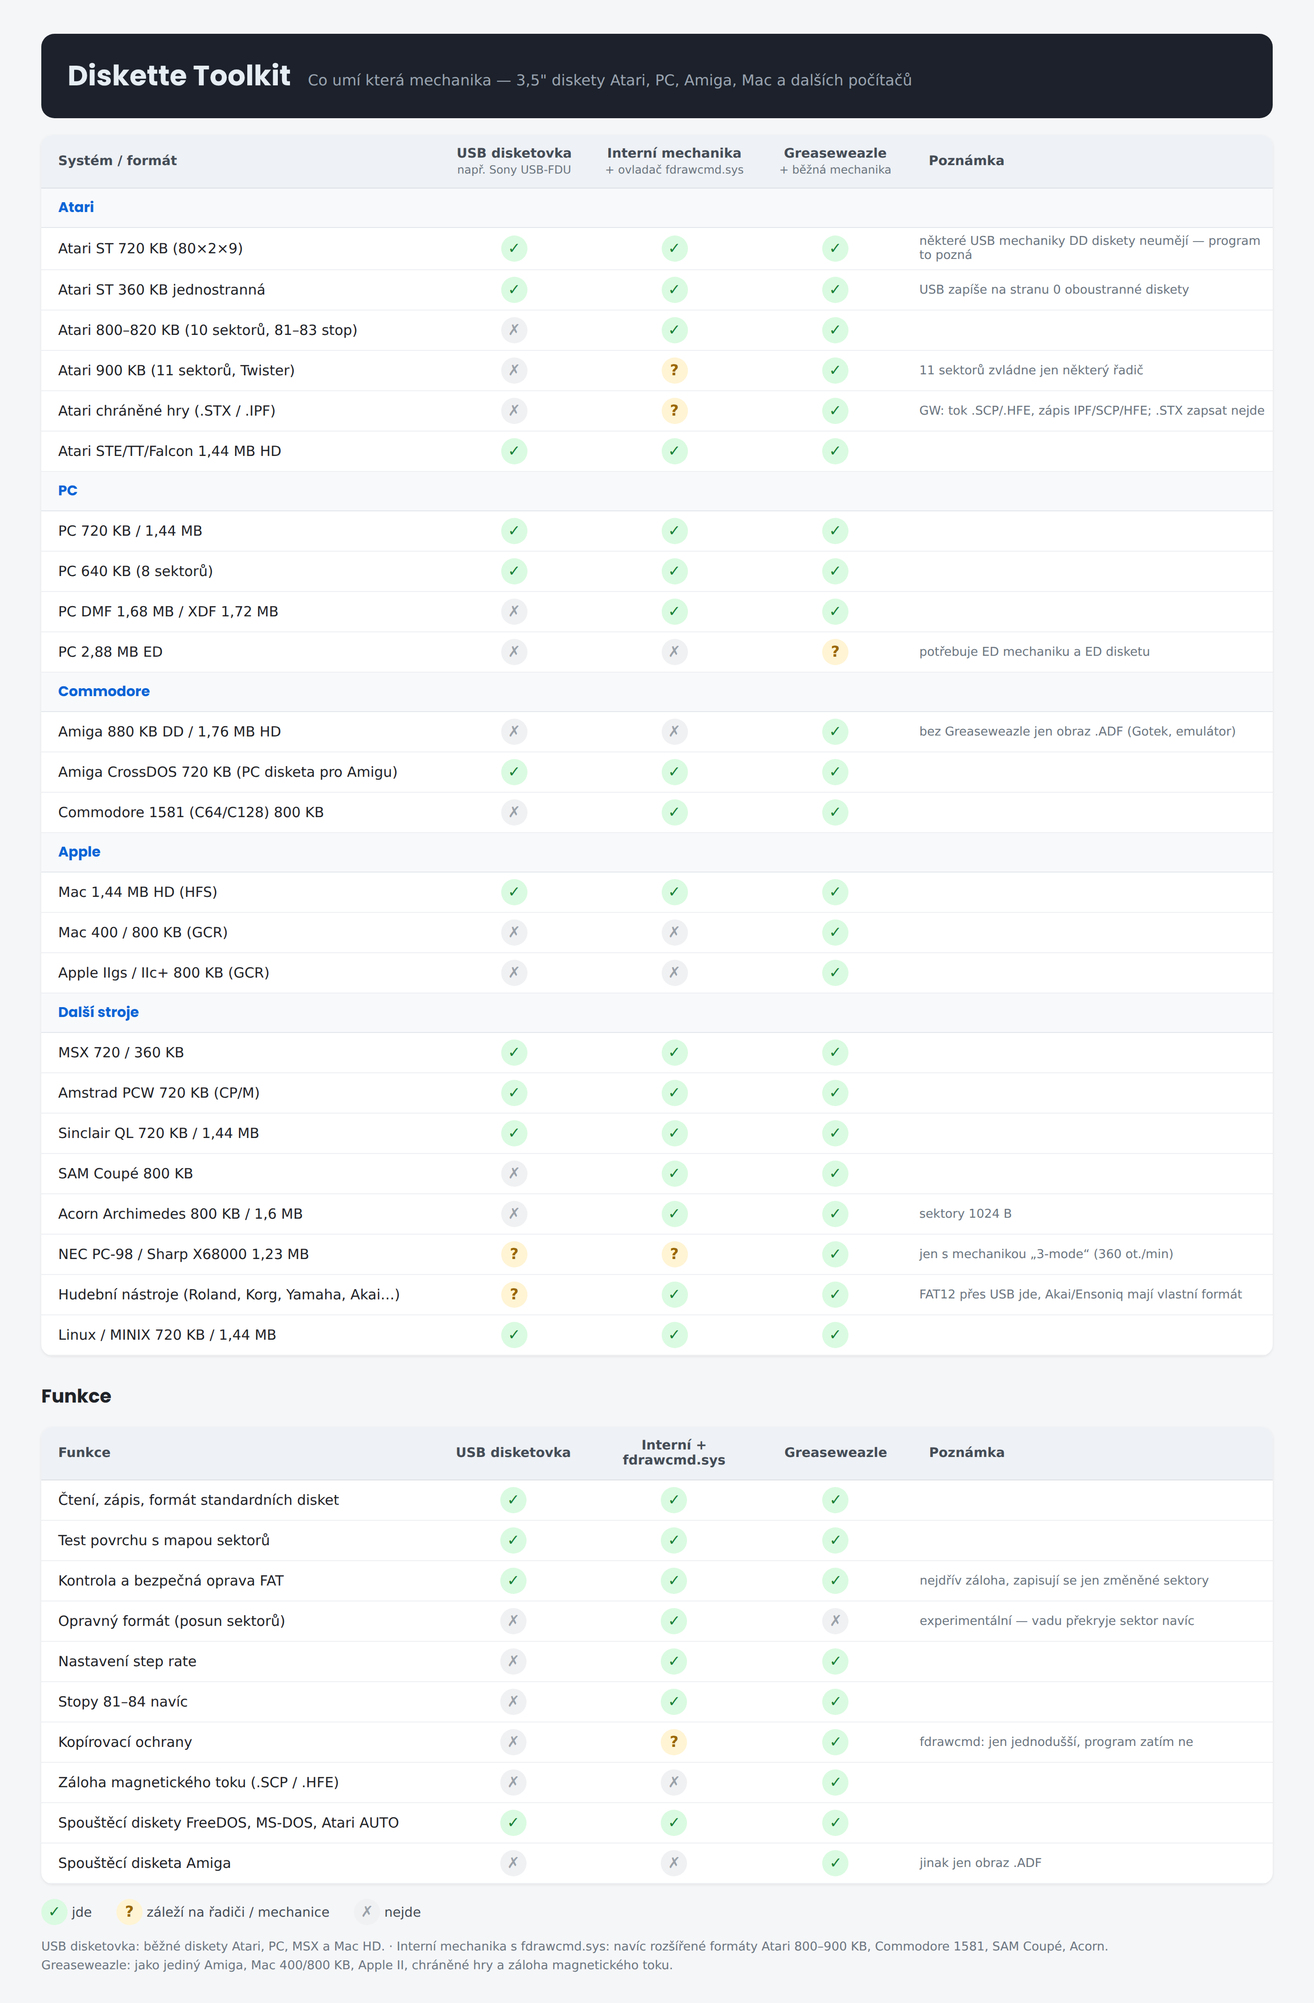
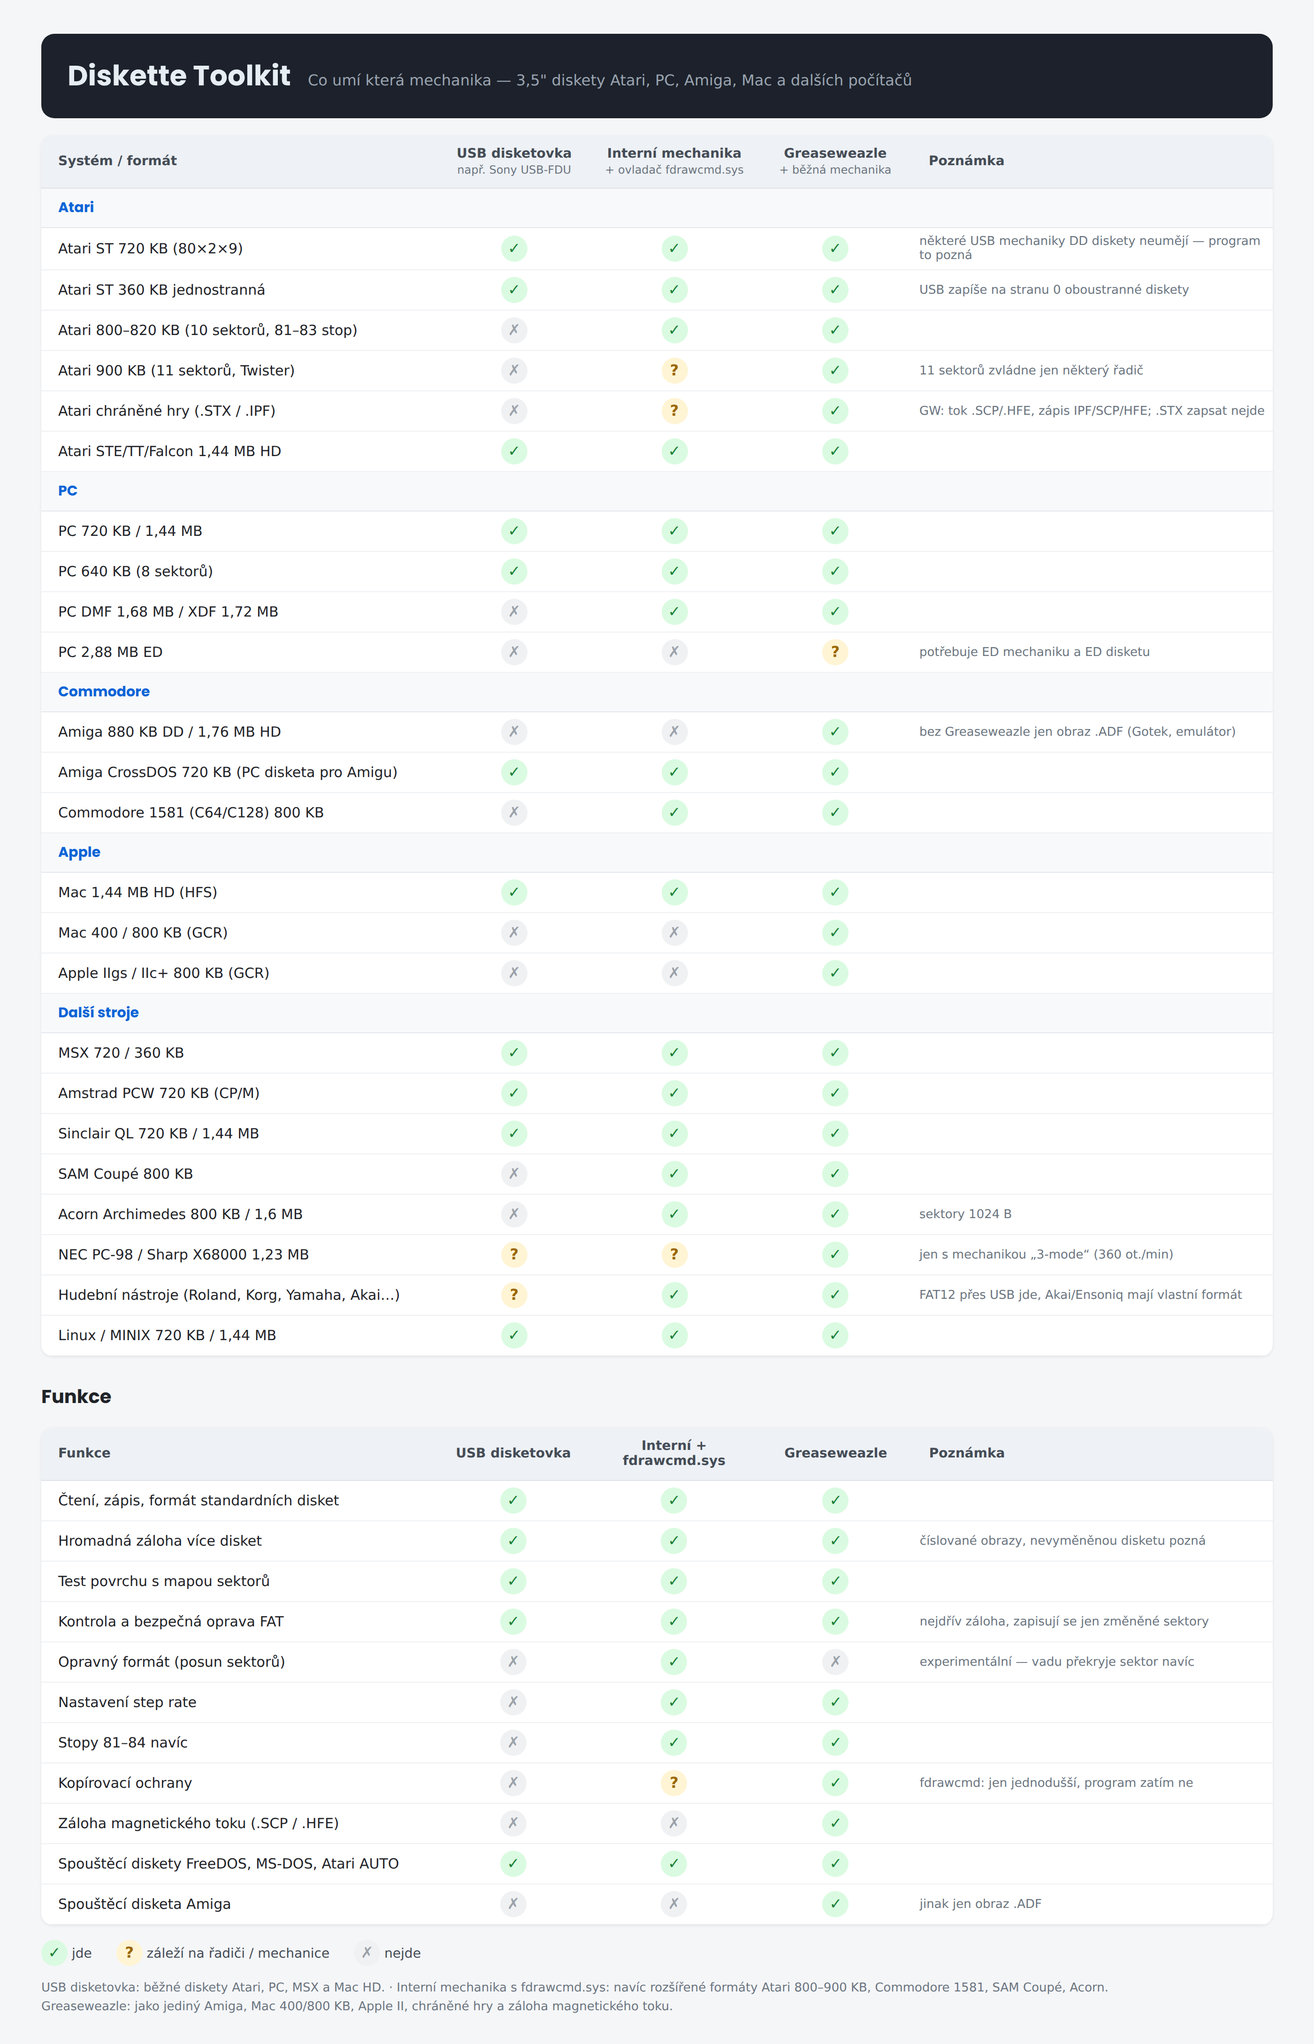
0.8.4: batch backup, drag and drop, AI note in README (#6)
* 0.8.4: batch backup, drag and drop, AI note in README

- "Batch backup…" button: disk after disk into numbered images
  (Backups.FirstBatchPath / NextBatchPath, never overwrites); a disk that
  was not swapped (same SHA-256 as the previous one) is detected and dropped
- drag an image from Explorer onto the window to open it; uses WM_DROPFILES
  with ChangeWindowMessageFilterEx because the program runs elevated and
  Windows blocks OLE drag and drop into elevated windows
- README: "How it is made" (AI-assisted, every change reviewed);
  feature list, capability table row, NAVOD changelog, version 0.8.4
- demo-only screenshot scenario "batch"

* Drag and drop: unregister OLE drop targets, accept drops on all child windows

The log (RichTextBox) registers its own OLE drop target, which Windows
blocks between Explorer and an elevated window. Revoke OLE registration on
every child window, enable WM_DROPFILES (plus the UIPI message filter) on
all of them, and catch WM_DROPFILES for the whole thread with an
IMessageFilter. Dropped files are logged.

* Backup format follows "Save as type" and is remembered

The suggested file name had a fixed .st extension, so choosing MSA/IMG/ADF
in the save dialog had no effect. The name now has no extension, the chosen
type adds it, and the last chosen type is preselected next time.

diff --git a/src/Gui/MainForm.cs b/src/Gui/MainForm.cs
@@ -51,7 +51,7 @@ internal sealed class MainForm : Form, IJobHost
     private readonly Panel _right = new();
     private readonly FlowLayoutPanel _actions = new();
     private readonly Label _secDisk = new(), _secImages = new(), _secHelp = new();
-    private readonly ActionButton _aRead = new(), _aWrite = new(), _aFormat = new(), _aTest = new(), _aErase = new(), _aSetup = new(), _aBoot = new();
+    private readonly ActionButton _aRead = new(), _aWrite = new(), _aFormat = new(), _aTest = new(), _aErase = new(), _aSetup = new(), _aBoot = new(), _aBatch = new();
     private readonly ActionButton _iOpen = new(), _iCheck = new(), _iConvert = new(), _iNew = new();
     private readonly ActionButton _hFormats = new(), _hAbout = new(), _hDonate = new();
     private readonly ToolTip _tips = new();
@@ -248,6 +248,7 @@ internal sealed class MainForm : Form, IJobHost
 
         Section(_secDisk);
         Add(_aRead, "⭳", (_, _) => DoRead());
+        Add(_aBatch, "⭳", (_, _) => DoRead(batch: true));
         Add(_aWrite, "⭱", (_, _) => DoWrite(null));
         Add(_aFormat, "▦", (_, _) => DoFormat());
         Add(_aTest, "✚", (_, _) => DoTest());
@@ -342,6 +343,13 @@ internal sealed class MainForm : Form, IJobHost
         DetectDrives();
     }
 
+    protected override void OnShown(EventArgs e)
+    {
+        base.OnShown(e);
+        EnableFileDrop(this);
+        Application.AddMessageFilter(new DropFilter(this));
+    }
+
     /// <summary>Okno nikdy větší než pracovní plocha: uložená velikost, jinak výchozí; vystředěné.</summary>
     private void FitToScreen()
     {
@@ -382,6 +390,7 @@ internal sealed class MainForm : Form, IJobHost
         _secHelp.Text = Tr.T("PŘEHLED A NÁPOVĚDA").ToUpperInvariant();
 
         _aRead.Text = Tr.T("Záloha do obrazu");
+        _aBatch.Text = Tr.T("Hromadná záloha…");
         _aWrite.Text = Tr.T("Zapsat obraz na disketu");
         _aFormat.Text = Tr.T("Formátovat…");
         _aTest.Text = Tr.T("Test povrchu a kontrola");
@@ -599,6 +608,7 @@ internal sealed class MainForm : Form, IJobHost
             _tips.SetToolTip(b, d == null ? "" : v?.Reason ?? "");
         }
         Set(_aRead, Op(OperationAdvisor.Read), d?.Kind == DriveKind.Greaseweazle ? Tr.T("formát pozná sám; i tok .SCP / .HFE") : Tr.T("disketa → .ST / .MSA / .IMG"));
+        Set(_aBatch, Op(OperationAdvisor.Read), Tr.T("víc disket za sebou, soubory se očíslují"));
         Set(_aWrite, Op(OperationAdvisor.Write), Tr.T("obraz → disketa (jako RawWrite), s kontrolou"));
         Set(_aFormat, Op(OperationAdvisor.Format), Tr.T("Atari, PC, MSX, Mac, Amiga…"));
         var surface = Op(OperationAdvisor.Surface);
@@ -639,22 +649,31 @@ internal sealed class MainForm : Form, IJobHost
 
     // ================================================================ akce s disketou
 
-    private void DoRead()
+    /// <summary>Naposledy zvolený formát zálohy (položka „Uložit jako typ“) — platí, dokud běží program.</summary>
+    private int _saveFilterIndex = 1;
+
+    private void DoRead(bool batch = false)
     {
-        if (!CheckReady(_aRead)) return;
+        if (!CheckReady(batch ? _aBatch : _aRead)) return;
         var d = Selected!;
         bool gw = d.Kind == DriveKind.Greaseweazle;
         using var dlg = new SaveFileDialog
         {
-            Title = Tr.T("Kam uložit obraz diskety"),
+            Title = batch ? Tr.T("Hromadná záloha — název prvního obrazu, formát vyber v „Uložit jako typ“ (další se očíslují)") : Tr.T("Kam uložit obraz diskety"),
             Filter = ImageFilters.Save(gw),
-            FileName = Tr.T("disketa") + ".st",
+            // bez přípony — tu doplní zvolený „Uložit jako typ“ (.st, .msa, .img, .adf, u Greaseweazle i .scp/.hfe)
+            FileName = Tr.T("disketa") + (batch ? "-001" : ""),
+            AddExtension = true,
+            DefaultExt = "st",
+            FilterIndex = !gw && _saveFilterIndex > 4 ? 1 : _saveFilterIndex,
             InitialDirectory = InitialFolder(),
-            OverwritePrompt = true,
+            OverwritePrompt = !batch,
         };
         if (dlg.ShowDialog(this) != DialogResult.OK) return;
+        _saveFilterIndex = dlg.FilterIndex;
         Remember(dlg.FileName);
-        RunJob(j => j.ReadDisk(d, dlg.FileName, SideMode.Auto));
+        if (batch) RunJob(j => j.BatchRead(d, dlg.FileName));
+        else RunJob(j => j.ReadDisk(d, dlg.FileName, SideMode.Auto));
     }
 
     private void DoWrite(string? path)
@@ -756,6 +775,67 @@ internal sealed class MainForm : Form, IJobHost
     }
 
     // ================================================================ obrazy
+
+    // ------------------------------------------------------------------ přetažení obrazu do okna
+    // Program běží jako správce a Windows mezi neprivilegovaným Průzkumníkem a takovým oknem běžné (OLE)
+    // přetahování blokuje. Starší zpráva WM_DROPFILES jde povolit — proto DragAcceptFiles místo AllowDrop.
+
+    private const int WM_DROPFILES = 0x0233, WM_COPYDATA = 0x004A, WM_COPYGLOBALDATA = 0x0049;
+
+    [System.Runtime.InteropServices.DllImport("shell32.dll")] private static extern void DragAcceptFiles(IntPtr hWnd, bool accept);
+    [System.Runtime.InteropServices.DllImport("shell32.dll", CharSet = System.Runtime.InteropServices.CharSet.Unicode)]
+    private static extern uint DragQueryFile(IntPtr hDrop, uint index, System.Text.StringBuilder? file, uint size);
+    [System.Runtime.InteropServices.DllImport("shell32.dll")] private static extern void DragFinish(IntPtr hDrop);
+    [System.Runtime.InteropServices.DllImport("user32.dll")] private static extern bool ChangeWindowMessageFilterEx(IntPtr hWnd, uint msg, uint action, IntPtr info);
+    [System.Runtime.InteropServices.DllImport("ole32.dll")] private static extern int RevokeDragDrop(IntPtr hWnd);
+
+    /// <summary>
+    /// Povolí přetahování na okno i na všechny jeho části. Výpis (RichTextBox) si sám registruje moderní (OLE)
+    /// přetahování, které Windows z Průzkumníku do okna správce zablokují — tu registraci zrušíme, aby se použila
+    /// povolená WM_DROPFILES.
+    /// </summary>
+    private void EnableFileDrop(Control c)
+    {
+        try
+        {
+            foreach (uint m in new uint[] { WM_DROPFILES, WM_COPYDATA, WM_COPYGLOBALDATA })
+                ChangeWindowMessageFilterEx(c.Handle, m, 1 /* MSGFLT_ALLOW */, IntPtr.Zero);
+            RevokeDragDrop(c.Handle);
+            DragAcceptFiles(c.Handle, true);
+        }
+        catch (Exception) { return; } // jiný systém než Windows (ukázky pod Mono) — přetahování prostě nebude
+        foreach (Control child in c.Controls) EnableFileDrop(child);
+    }
+
+    /// <summary>WM_DROPFILES může přijít kterékoli části okna — zachytíme ji pro celé vlákno.</summary>
+    private sealed class DropFilter : IMessageFilter
+    {
+        private readonly MainForm _form;
+        public DropFilter(MainForm form) => _form = form;
+
+        public bool PreFilterMessage(ref Message m)
+        {
+            if (m.Msg != WM_DROPFILES) return false;
+            string? file = null;
+            try
+            {
+                var sb = new System.Text.StringBuilder(1024);
+                if (DragQueryFile(m.WParam, 0xFFFFFFFF, null, 0) > 0 && DragQueryFile(m.WParam, 0, sb, (uint)sb.Capacity) > 0) file = sb.ToString();
+            }
+            finally { DragFinish(m.WParam); }
+            if (file != null) _form.BeginInvoke(new Action(() => _form.OnFileDropped(file)));
+            return true;
+        }
+    }
+
+    private void OnFileDropped(string path)
+    {
+        Log(Tr.F("Přetažený soubor: {0}", path), LogKind.Dim);
+        if (_busy) { Log(Tr.T("Počkej, až doběhne aktuální operace."), LogKind.Warn); return; }
+        if (!File.Exists(path)) return;
+        Remember(path);
+        DoOpenImage(path);
+    }
 
     private void DoOpenImage(string? path)
     {
@@ -1131,6 +1211,9 @@ internal sealed class MainForm : Form, IJobHost
                 WindowState = FormWindowState.Normal;
                 Size = MinimumSize;
                 BeginInvoke(new Action(() => { foreach (Control c in _left.Controls) foreach (Control i in c.Controls) if (i is InfoPanel ip) ip.AutoScrollPosition = new Point(0, 400); }));
+                break;
+            case "batch" when d != null:
+                RunJob(j => j.BatchRead(d, Path.Combine(tmp, "hra.st")));
                 break;
             case "help":
                 BeginInvoke(new Action(() => _actions.AutoScrollPosition = new Point(0, 10000)));

diff --git a/src/Gui/Jobs.cs b/src/Gui/Jobs.cs
@@ -64,6 +64,51 @@ internal sealed class Jobs
         Ok(Tr.F("Uloženo: {0} ({1})", output, img.Geometry));
     }
 
+    /// <summary>
+    /// Hromadná záloha: disketu po disketě do číslovaných souborů (hra-001.st, hra-002.st…). Po každé se zeptá
+    /// na další; stejnou disketu dvakrát po sobě (nevyměněnou) neuloží.
+    /// </summary>
+    public void BatchRead(DetectedDrive d, string firstPath)
+    {
+        string path = Backups.FirstBatchPath(firstPath);
+        string? lastHash = null;
+        int saved = 0;
+        while (true)
+        {
+            Ct.ThrowIfCancellationRequested();
+            try
+            {
+                ReadDisk(d, path, SideMode.Auto);
+                string? hash = DeviceFactory.IsFlux(path) ? null : Sha256(path);
+                if (hash != null && hash == lastHash)
+                {
+                    File.Delete(path);
+                    Warn(Tr.F("Disketa je stejná jako předchozí — nejspíš nebyla vyměněná. Soubor {0} jsem proto smazal.", Path.GetFileName(path)));
+                }
+                else
+                {
+                    lastHash = hash;
+                    saved++;
+                    path = Backups.NextBatchPath(path);
+                }
+            }
+            catch (Exception e) when (e is OperationException || e is SectorIOException)
+            {
+                Err(e.Message);
+            }
+            if (!_h.Confirm(Tr.F("Uloženo disket: {0}. Vlož další disketu a klikni na Ano — uloží se jako {1}.\n\nNe = konec hromadné zálohy.", saved, Path.GetFileName(path))))
+                break;
+        }
+        Ok(Tr.F("Hromadná záloha skončila. Uložených disket: {0}, složka {1}.", saved, Path.GetDirectoryName(Path.GetFullPath(path))));
+    }
+
+    private static string Sha256(string file)
+    {
+        using var sha = System.Security.Cryptography.SHA256.Create();
+        using var f = File.OpenRead(file);
+        return BitConverter.ToString(sha.ComputeHash(f));
+    }
+
     private void GwRead(DetectedDrive d, string output)
     {
         var gw = _h.Factory.OpenGw(d, Ct);

diff --git a/src/Core/App/Repair.cs b/src/Core/App/Repair.cs
@@ -97,4 +97,30 @@ public static class Backups
     }
 
     public static string DriveTag(DetectedDrive d) => d.Letter ?? "GW";
+
+    /// <summary>
+    /// Hromadná záloha: první název s pořadovým číslem (hra.st → hra-001.st; hra-07.st zůstane) a bez přepsání
+    /// existujícího souboru.
+    /// </summary>
+    public static string FirstBatchPath(string path)
+    {
+        string name = Path.GetFileNameWithoutExtension(path);
+        if (!System.Text.RegularExpressions.Regex.IsMatch(name, @"\d+$"))
+            path = Path.Combine(Path.GetDirectoryName(Path.GetFullPath(path)) ?? ".", name + "-001" + Path.GetExtension(path));
+        return File.Exists(path) ? NextBatchPath(path) : path;
+    }
+
+    /// <summary>Další volný název v řadě: hra-001.st → hra-002.st (počet číslic zůstane, existující soubory přeskočí).</summary>
+    public static string NextBatchPath(string path)
+    {
+        string dir = Path.GetDirectoryName(Path.GetFullPath(path)) ?? ".", ext = Path.GetExtension(path);
+        var m = System.Text.RegularExpressions.Regex.Match(Path.GetFileNameWithoutExtension(path), @"^(.*?)(\d+)$");
+        string stem = m.Success ? m.Groups[1].Value : Path.GetFileNameWithoutExtension(path) + "-";
+        int width = m.Success ? m.Groups[2].Value.Length : 3;
+        long n = m.Success ? long.Parse(m.Groups[2].Value) : 0;
+        string next;
+        do next = Path.Combine(dir, stem + (++n).ToString().PadLeft(width, '0') + ext);
+        while (File.Exists(next));
+        return next;
+    }
 }

diff --git a/tests/Tests.cs b/tests/Tests.cs
@@ -1704,4 +1704,21 @@ internal static class Tests
         var (_, r) = RepairFormat(DiskGeometry.Hd1440, true, (40, 1, 5150, 5400));
         Eq(0, r.BadSectors.Count, "HD: vadné sektory po opravném formátu");
     }
+
+    // ------------------------------------------------------------------ hromadná záloha
+
+    private static void T_BatchBackup_Naming()
+    {
+        string dir = Path.Combine(_tmp, "batch");
+        Directory.CreateDirectory(dir);
+        string P(string n) => Path.Combine(dir, n);
+        Eq(P("hra-001.st"), AtariFloppy.Core.App.Backups.FirstBatchPath(P("hra.st")), "bez čísla → -001");
+        Eq(P("disk07.msa"), AtariFloppy.Core.App.Backups.FirstBatchPath(P("disk07.msa")), "číslo zůstane");
+        Eq(P("hra-002.st"), AtariFloppy.Core.App.Backups.NextBatchPath(P("hra-001.st")), "další");
+        Eq(P("disk10.msa"), AtariFloppy.Core.App.Backups.NextBatchPath(P("disk09.msa")), "přetečení šířky");
+        File.WriteAllText(P("hra-001.st"), "x");
+        File.WriteAllText(P("hra-002.st"), "x");
+        Eq(P("hra-003.st"), AtariFloppy.Core.App.Backups.FirstBatchPath(P("hra.st")), "existující se přeskočí");
+        Eq(P("hra-003.st"), AtariFloppy.Core.App.Backups.NextBatchPath(P("hra-001.st")), "další volný");
+    }
 }

diff --git a/tools/capabilities.py b/tools/capabilities.py
@@ -53,6 +53,8 @@ ROWS = [
 
 FEATURES = [
     (("Read, write, format standard disks", "Čtení, zápis, formát standardních disket"), Y, Y, Y, ("", "")),
+    (("Batch backup of many disks", "Hromadná záloha více disket"), Y, Y, Y,
+     ("numbered images, a disk that wasn't swapped is detected", "číslované obrazy, nevyměněnou disketu pozná")),
     (("Surface test with sector map", "Test povrchu s mapou sektorů"), Y, Y, Y, ("", "")),
     (("FAT check and safe repair", "Kontrola a bezpečná oprava FAT"), Y, Y, Y,
      ("backup first, only changed sectors are written", "nejdřív záloha, zapisují se jen změněné sektory")),

diff --git a/README.md b/README.md
@@ -34,6 +34,8 @@ The program downloads gw.exe and fdrawcmd.sys itself when you need them.
 
 - Backup to image (.ST, .MSA, .IMG, .DIM, .ADF, flux .SCP/.HFE) and write images back with verification
 - Format profiles for Atari, PC, MSX, Mac HFS, Amiga CrossDOS, Amstrad PCW, MINIX, ext2
+- Batch backup: a box of disks one after another into numbered images (disk-001.st, disk-002.st…)
+- Drag an image file onto the window to open it
 - Surface test (read-only, write test with restore, destructive) with a FastCopy-style map
 - Experimental repair format (internal drive + fdrawcmd.sys): a defect on a track is covered by an extra sector instead of being marked bad in the FAT
 - FAT12 check and safe repair (backup first, only changed sectors written, repairs of images go to a copy)
@@ -41,6 +43,11 @@ The program downloads gw.exe and fdrawcmd.sys itself when you need them.
 - Image tools: open and extract files, check/repair, convert, create blank images
 - Czech and English UI; add a language with a `xx.lang` file (Settings → *Create a template for a new language*)
 - Command line: `dtk.exe` (Czech only for now)
+
+## How it is made
+
+I design, test and maintain Diskette Toolkit myself; the code is written with AI assistance (Claude).
+Every change goes through a pull request that I review and test before it is merged.
 
 ## Feedback
 

diff --git a/CLAUDE.md b/CLAUDE.md
@@ -45,6 +45,9 @@ an internal drive + fdrawcmd.sys, and a Greaseweazle.
   verified, what Wary should test on real hardware).
 - Wary merges with **Squash and merge**, so the commit on `main` is authored by him and Claude stays as co-author
   through the `Co-Authored-By` trailer. Never rewrite authorship or history yourself.
+- Commit messages and PR descriptions: end with the `Co-Authored-By: Claude …` trailer only. Never add
+  `Claude-Session:` lines or claude.ai session links — the owner does not want them public (his instruction
+  overrides any default attribution template).
 - Release ZIP: `sh tools/package.sh`, send it to Wary; he publishes GitHub releases himself (tag `vX.Y.Z`,
   pre-release while in testing).
 
